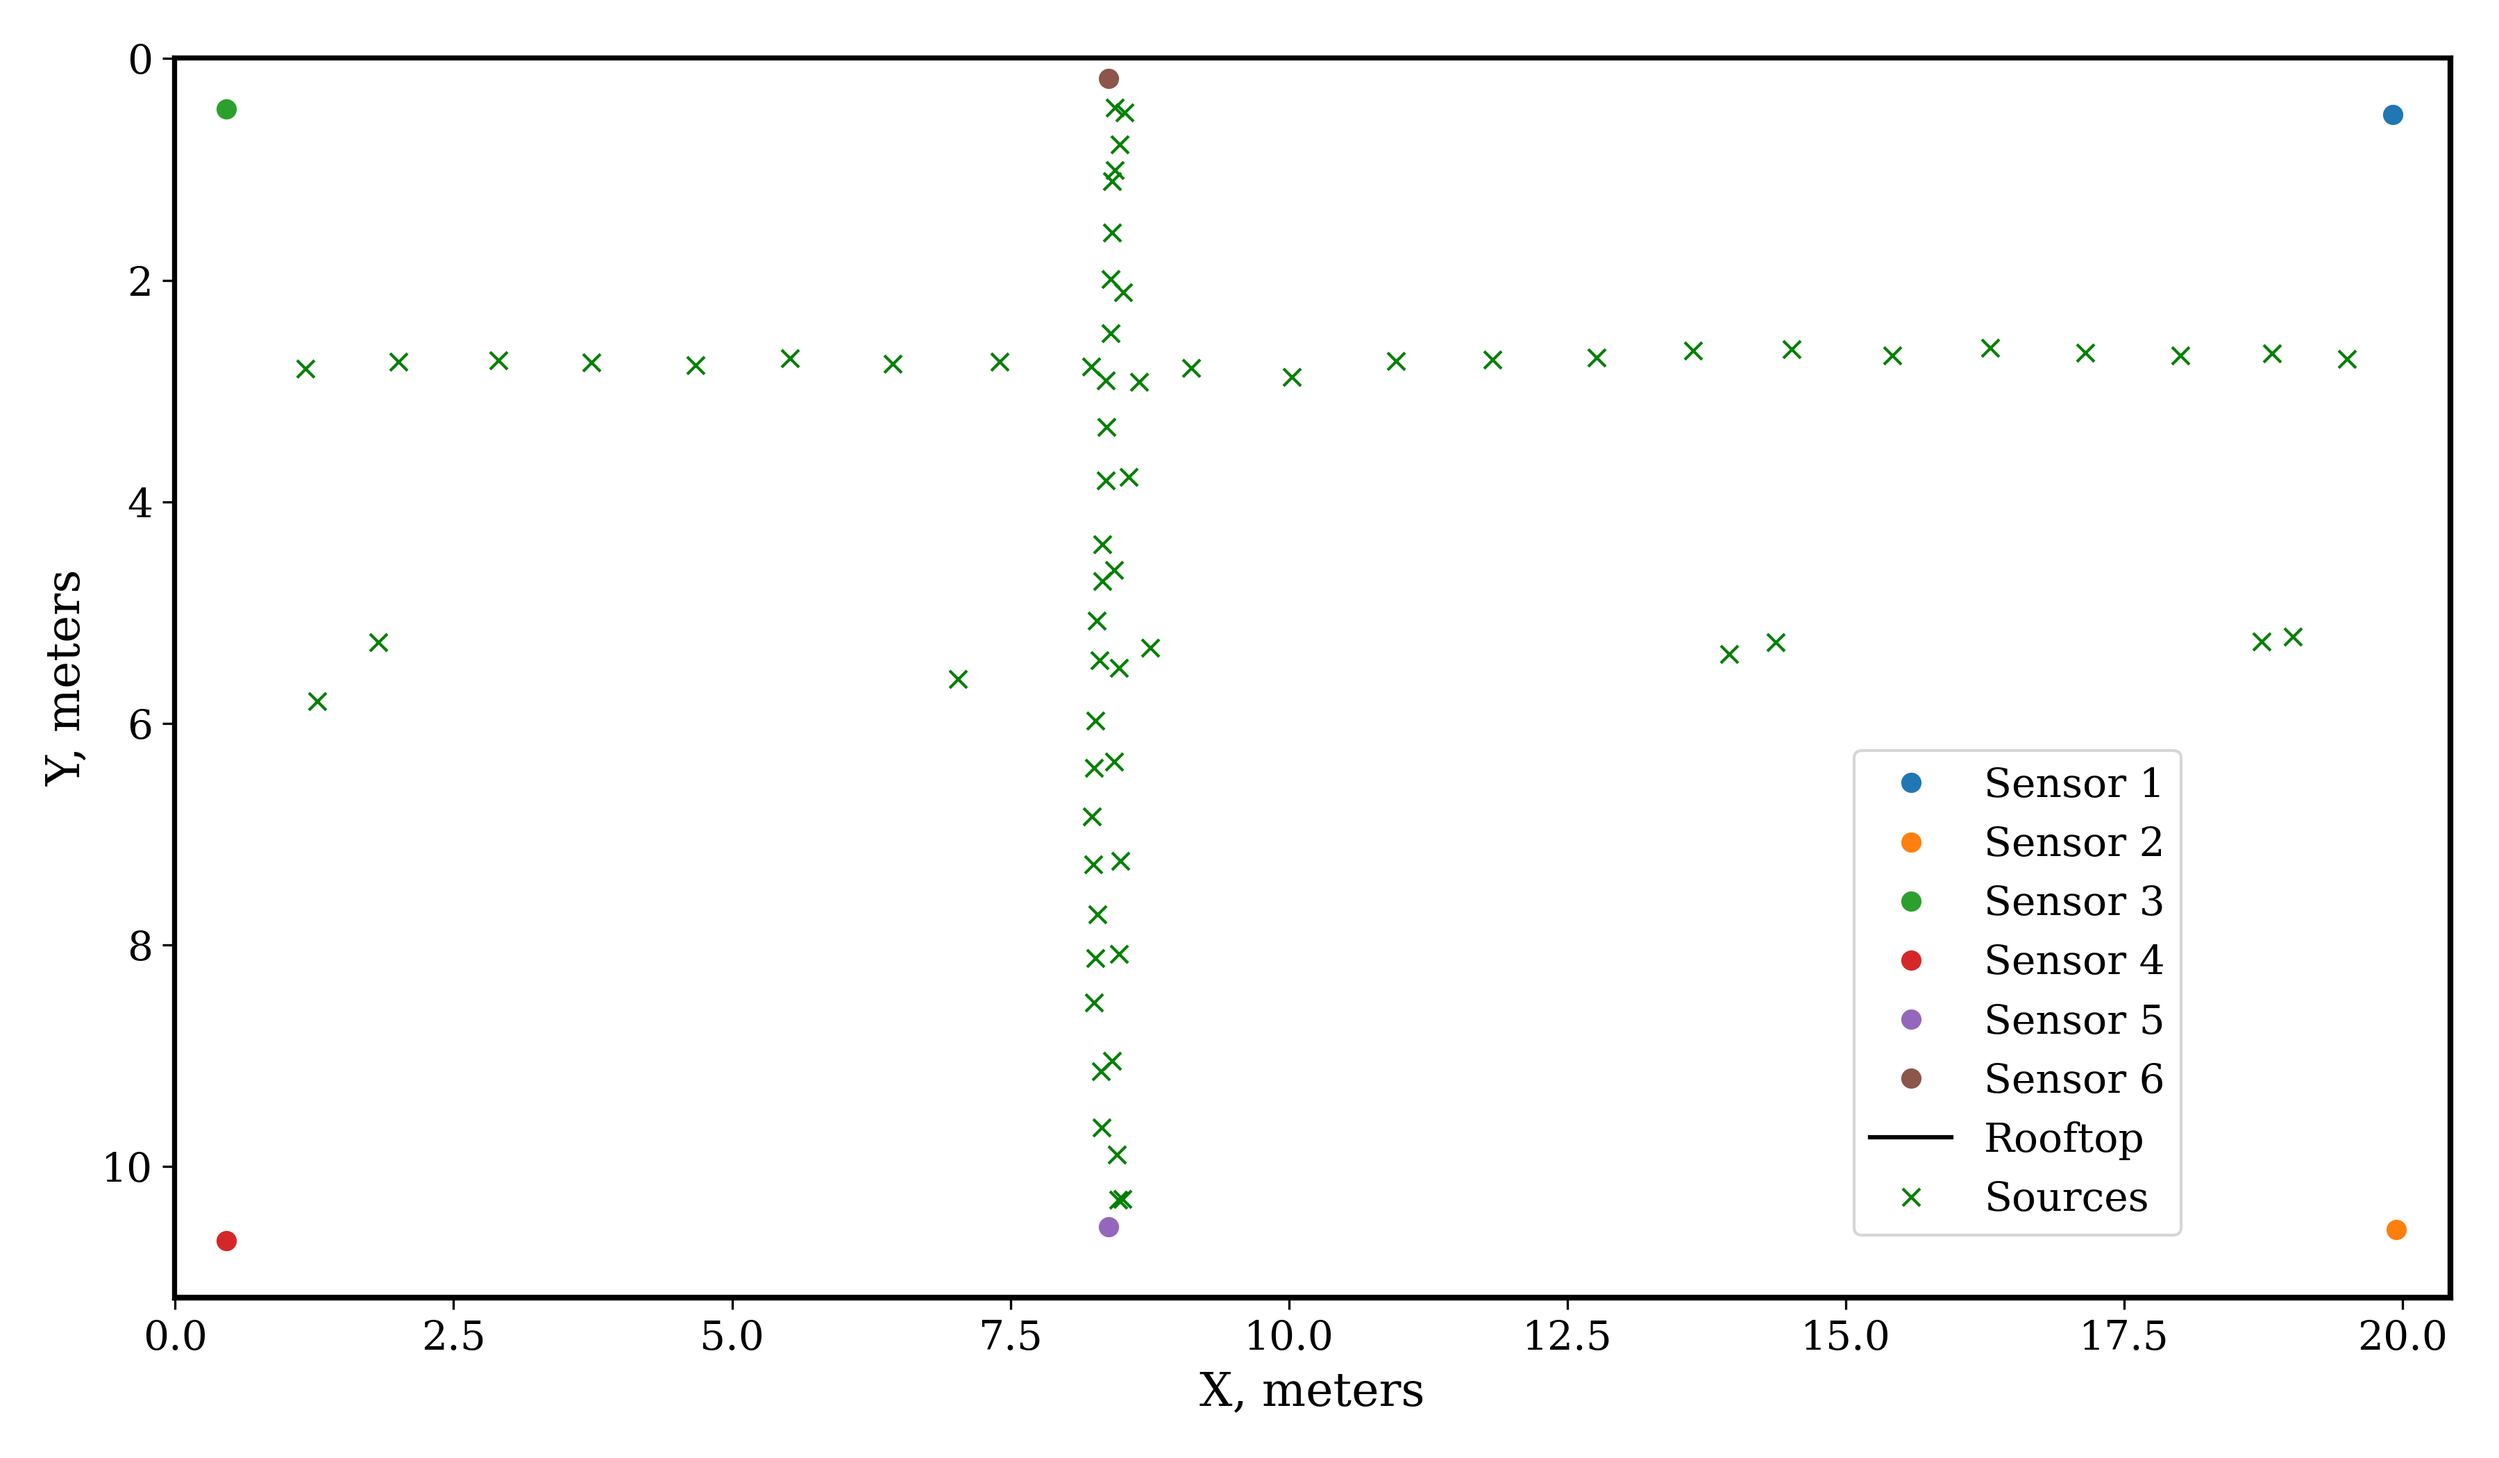
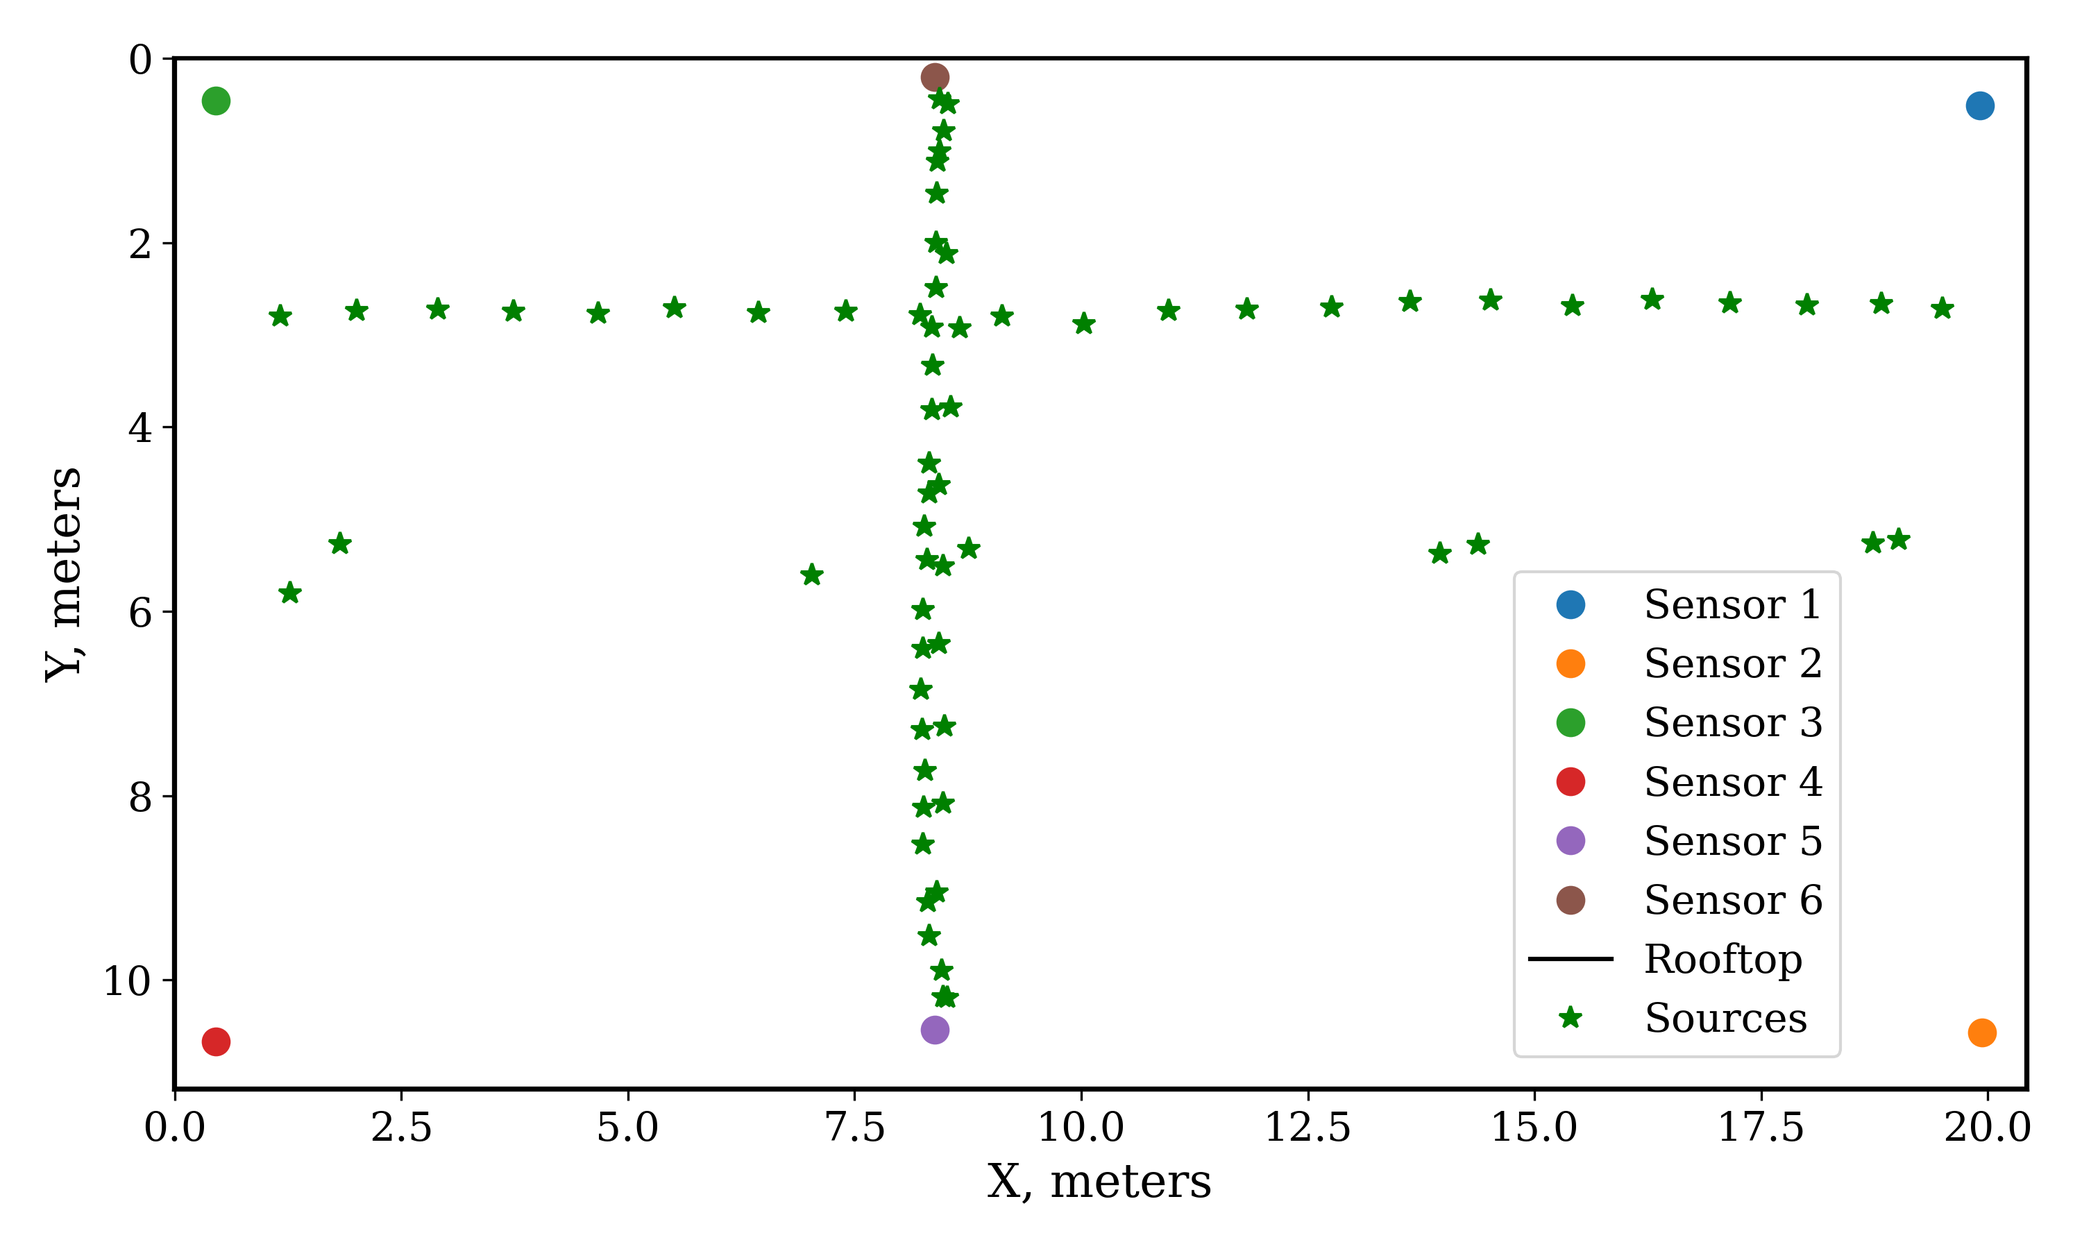
Finalize plots

diff --git a/analysis/global_localization.py b/analysis/global_localization.py
@@ -105,7 +105,7 @@ if __name__ == '__main__':
 
     in_to_m = 0.0254
     w, h = 804 * in_to_m, 440 * in_to_m
-    ref_pos = np.array([[784, 20], [785, 416], [18, 18], [18, 420], [330, 415], [330, 7]]) * in_to_m
+    ref_pos = np.array([[784, 20], [785, 416], [18, 18], [18, 420], [330, 415], [330, 8]]) * in_to_m
     ref_pos = np.concatenate([ref_pos, 57 * in_to_m * np.ones((6, 1))], axis=1)
     bbox = ((0, w), (0, h), (0, 3))
     print(ref_pos)
@@ -116,14 +116,14 @@ if __name__ == '__main__':
     suc = suc & (np.abs(pos[:, 2] - 1.45) < 0.1)
     print(suc, "\n", pos)
 
-    plt.figure("Rooftop", (12, 7))
+    plt.figure("Rooftop", (10, 6))
     # plt.title(filegroup)
     for i in range(6):
-        plt.plot(ref_pos[i, 0], ref_pos[i, 1], "o", label="Sensor "+str(i+1))
+        plt.plot(ref_pos[i, 0], ref_pos[i, 1], "o", label="Sensor "+str(i+1), markersize=9)
     plt.plot([0, w, w, 0, 0], [0, 0, h, h, 0], "k", label="Rooftop")
     # plt.plot(w+1, 0)  # make space for legend
 
-    plt.plot(pos[:, 0], pos[:, 1], "gx", label="Sources")
+    plt.plot(pos[:, 0], pos[:, 1], "g*", label="Sources", markersize=8)
     # plt.plot(pos[suc, 0], pos[suc, 1], "gx", label="Good Fit")
     # plt.plot(pos[~suc, 0], pos[~suc, 1], "rx", label="Bad Fit")
 
@@ -132,7 +132,7 @@ if __name__ == '__main__':
     eps = 0.02
     plt.xlim([-eps, w+eps])
     plt.ylim([h+eps, -eps])
-    plt.legend(loc="lower right", bbox_to_anchor=(0.89, 0.035))
+    plt.legend(loc="lower right", bbox_to_anchor=(0.91, 0.013))
     # plt.axis("equal")
     plt.tight_layout()
     plt.savefig("global_localization.png", dpi=300)

diff --git a/analysis/edge_detection.py b/analysis/edge_detection.py
@@ -149,16 +149,17 @@ def detect_all_edges(data, filenames):
 if __name__ == '__main__':
     data_path = "/home/yurii/data"
     # filegroup = "/aligned/car_buzzer_and_hummer_grid_%d.wav"
-    filegroup = "/aligned/sync_line_56_and_13_%d.wav"
+    # filegroup = "/aligned/sync_line_56_and_13_%d.wav"
+    filegroup = "/aligned/sine_buzzer_redo_%d.wav"
     channel = 0
 
     data, filenames = load_data(data_path + filegroup, plot=True, save_plot=True, plot_channel=channel)
 
     # detect_edges(data[0][:, 0], plot=True, plot_all=True, save=False)
 
-    detect_all_edges(data, filenames)
+    # detect_all_edges(data, filenames)
 
-    # edges = [detect_edges(data[i][:, channel], plot=True, save=True, title=filenames[i][:-4]) for i in range(6)]
+    edges = [detect_edges(data[i][:, channel], plot=True, save=True, title=filenames[i][:-4]) for i in range(6)]
     # print(edges)
 
     plt.show()

diff --git a/analysis/sync_polt.py b/analysis/sync_polt.py
@@ -37,6 +37,7 @@ if __name__ == '__main__':
     plt.title("Synchronization Signal", pad=10)
     plt.plot([0, duration], [0, 0], "--", color="grey")
     plt.plot(0, 0)  # skip color
+    plt.plot(0, 0)  # skip color
     plt.plot(data[offset:offset+duration+1, -1], "-", label="Channel 16", linewidth=2)
     plt.xlim([0, duration])
     plt.ylim([-2**15 - 2200, 2**15 + 2200])

diff --git a/examples/benchmark.py b/examples/benchmark.py
@@ -110,7 +110,7 @@ def _plot_lines(results, mbps=False):
 def _plot_results(results, id=DEFAULT_ID):
     plt.figure(figsize=(8, 6))
 
-    ax = plt.subplot(2, 1, 1, title="Buffers Throughput")
+    ax = plt.subplot(2, 1, 1, title="Buffer Throughput")
     _plot_lines(results, mbps=False)
     plt.legend()
     plt.gca().xaxis.set_visible(False)
